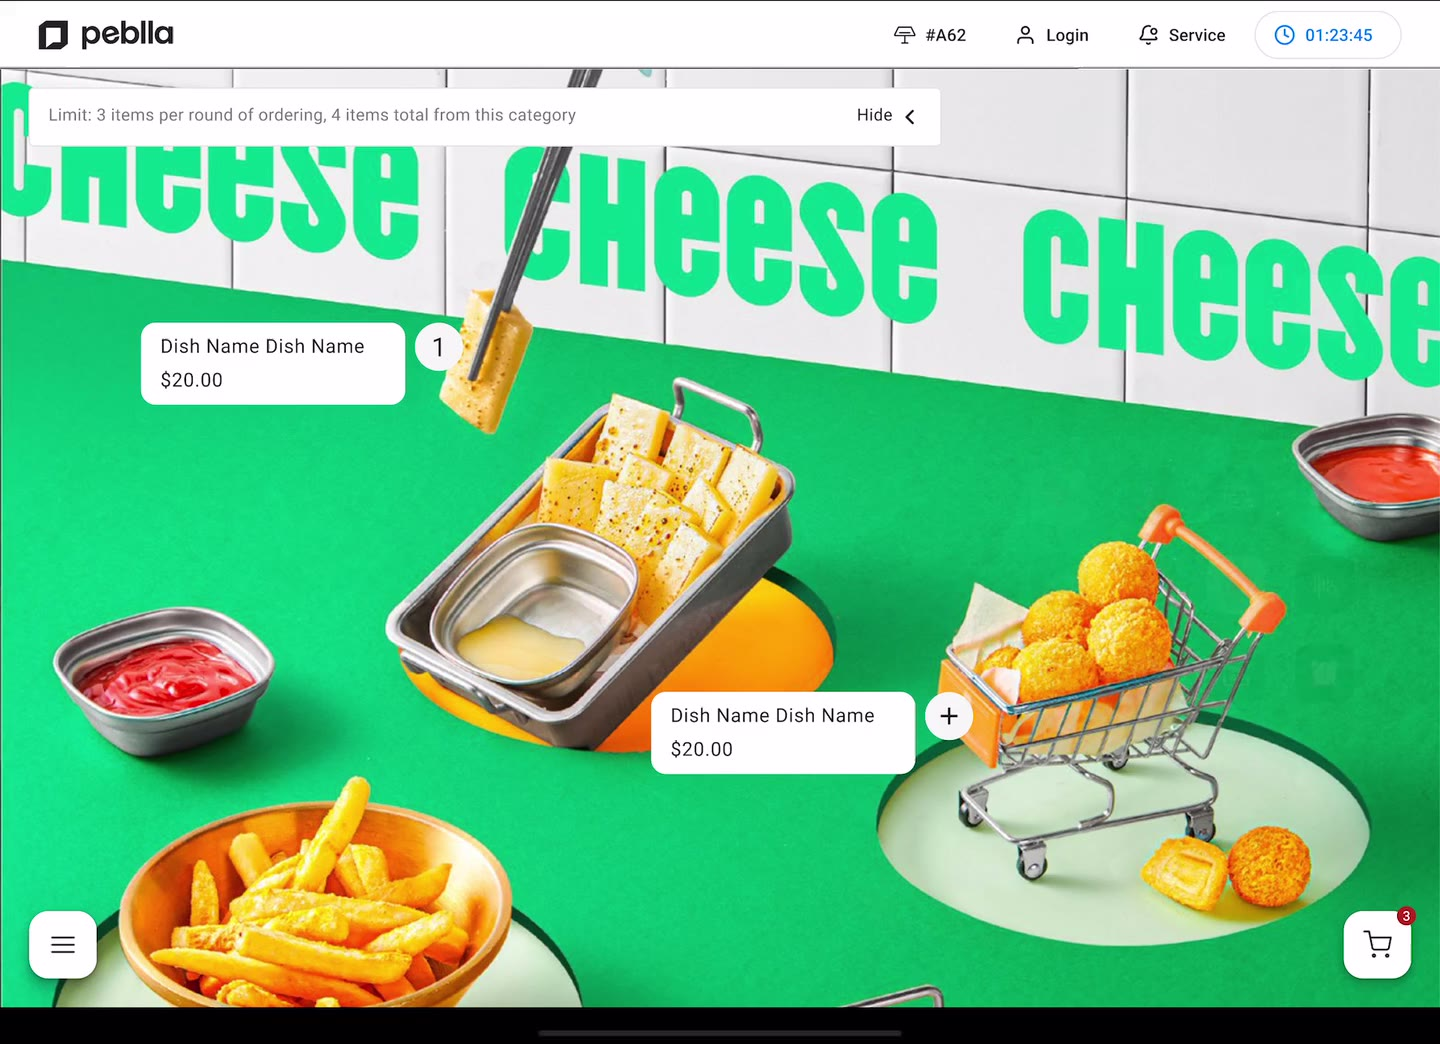
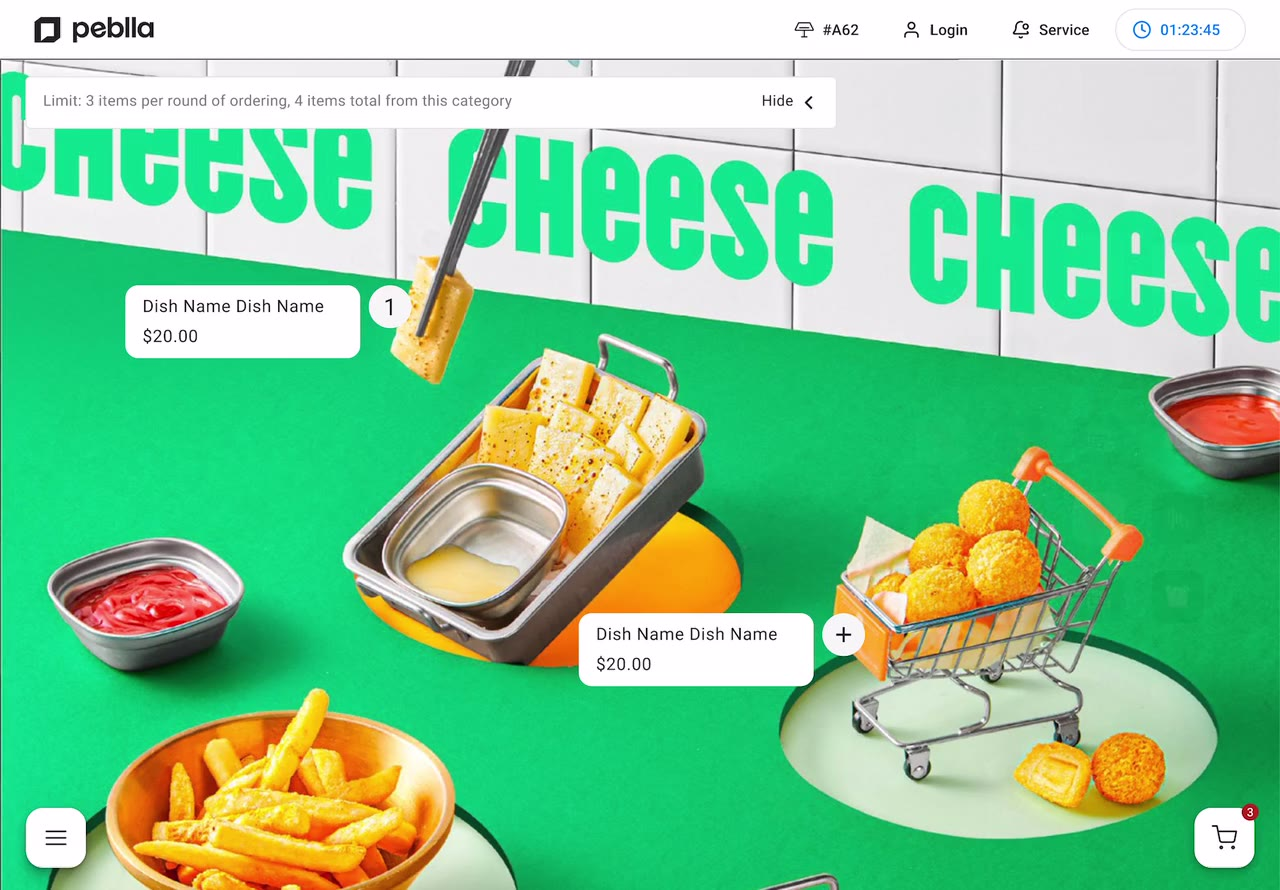
Ordering Tablet Section 6: trim video ends, crop bottom bar, frame as tablet card
- Trim the iOS Control Center that reopens at the end of each clip
  (B ends 81.4s, C ends 92.9s)
- Crop the bottom home-indicator black bar (crop top50/bottom54)
- Reframe: gray #fafafa stage with a centered, shadowed tablet card
  at 80% width, so the video reads as a device mockup, not full-bleed
- Re-encode 1280x890; B 28MB, C 16MB; cache-busted ?v=20260714c

diff --git a/demos/demos.css b/demos/demos.css
@@ -1747,23 +1747,27 @@
 
 /* ============================================================
    .fig-video — real prototype screen-recordings (Ordering Tablet
-   Section 06). Clean rounded frame matching the other figures;
-   plays via native <video>, play/pause driven by fig-video.js as
-   it scrolls in and out of view.
+   Section 06). Same flat #fafafa stage as the other device figures:
+   a gray frame with a centered, shadowed tablet card playing the
+   video. play/pause driven by fig-video.js as it scrolls in/out.
    ============================================================ */
 .fig-video {
-  position: relative;
-  border-radius: 16px;
-  overflow: hidden;
+  background: #fafafa;
   border: 1px solid #e4e4e1;
-  background: #0c0c0c;
-  line-height: 0;
+  border-radius: 16px;
+  padding: clamp(22px, 5vw, 52px) clamp(18px, 4vw, 46px);
 }
-.fig-video video {
+.fig-video-stage {
+  width: 80%;
+  margin: 0 auto;
+  border-radius: 18px;
+  overflow: hidden;
+  background: #000;
+  line-height: 0;
+  box-shadow: 0 30px 70px rgba(18, 18, 18, 0.22), 0 6px 18px rgba(18, 18, 18, 0.1);
+}
+.fig-video-stage video {
   width: 100%;
   height: auto;
   display: block;
-}
-@media (prefers-reduced-motion: reduce) {
-  .fig-video video { /* still controllable; autoplay suppressed via JS */ }
 }

diff --git a/tablet.html b/tablet.html
@@ -10,7 +10,7 @@
   <link href="https://fonts.googleapis.com/css2?family=Geist:wght@400;500;600;700&family=Geist+Mono:wght@400;500&family=Instrument+Serif:ital@0;1&family=Noto+Serif+TC:wght@400;600&family=Noto+Sans+TC:wght@400;500;700&family=Inter:wght@400;500;700&display=swap" rel="stylesheet" />
   <link rel="stylesheet" href="styles.css" />
   <link rel="stylesheet" href="case.css" />
-  <link rel="stylesheet" href="demos/demos.css?v=20260714b" />
+  <link rel="stylesheet" href="demos/demos.css?v=20260714c" />
   <script src="analytics.js?v=20260714c"></script>
 </head>
 <body class="case-tablet">
@@ -187,13 +187,17 @@
         </div>
         <figure class="reveal">
           <div class="fig-video">
-            <video src="demos/assets/tablet-prototype-b.mp4" poster="demos/assets/tablet-prototype-b-poster.jpg" muted loop playsinline controls preload="metadata"></video>
+            <div class="fig-video-stage">
+              <video src="demos/assets/tablet-prototype-b.mp4?v=20260714c" poster="demos/assets/tablet-prototype-b-poster.jpg?v=20260714c" muted loop playsinline controls preload="metadata"></video>
+            </div>
           </div>
           <figcaption>Prototype B &mdash; the prototype we actually recorded to validate poster-style ordering: an immersive scrolling menu where you open a dish, order in place, and check the cart. Beautiful &mdash; and deliberately shelved.</figcaption>
         </figure>
         <figure class="reveal">
           <div class="fig-video">
-            <video src="demos/assets/tablet-prototype-c.mp4" poster="demos/assets/tablet-prototype-c-poster.jpg" muted loop playsinline controls preload="metadata"></video>
+            <div class="fig-video-stage">
+              <video src="demos/assets/tablet-prototype-c.mp4?v=20260714c" poster="demos/assets/tablet-prototype-c-poster.jpg?v=20260714c" muted loop playsinline controls preload="metadata"></video>
+            </div>
           </div>
           <figcaption>Prototype C &mdash; a second poster variant we explored alongside B, opening from the table&rsquo;s welcome screen.</figcaption>
         </figure>

diff --git a/zh/tablet.html b/zh/tablet.html
@@ -10,7 +10,7 @@
   <link href="https://fonts.googleapis.com/css2?family=Geist:wght@400;500;600;700&family=Geist+Mono:wght@400;500&family=Instrument+Serif:ital@0;1&family=Noto+Serif+TC:wght@400;600&family=Noto+Sans+TC:wght@400;500;700&family=Inter:wght@400;500;700&display=swap" rel="stylesheet" />
   <link rel="stylesheet" href="../styles.css" />
   <link rel="stylesheet" href="../case.css" />
-  <link rel="stylesheet" href="../demos/demos.css?v=20260714b" />
+  <link rel="stylesheet" href="../demos/demos.css?v=20260714c" />
   <script src="../analytics.js?v=20260714c"></script>
 </head>
 <body class="case-tablet">
@@ -187,13 +187,17 @@
         </div>
         <figure class="reveal">
           <div class="fig-video">
-            <video src="../demos/assets/tablet-prototype-b.mp4" poster="../demos/assets/tablet-prototype-b-poster.jpg" muted loop playsinline controls preload="metadata"></video>
+            <div class="fig-video-stage">
+              <video src="../demos/assets/tablet-prototype-b.mp4?v=20260714c" poster="../demos/assets/tablet-prototype-b-poster.jpg?v=20260714c" muted loop playsinline controls preload="metadata"></video>
+            </div>
           </div>
           <figcaption>方案 B &mdash;&mdash; 當年為了驗證「海報式點餐」而真正錄下來的原型:一整張沉浸式的滾動菜單,點開一道菜、就地加點、再看購物車。做得很美 &mdash;&mdash; 也主動地把它擱置了。</figcaption>
         </figure>
         <figure class="reveal">
           <div class="fig-video">
-            <video src="../demos/assets/tablet-prototype-c.mp4" poster="../demos/assets/tablet-prototype-c-poster.jpg" muted loop playsinline controls preload="metadata"></video>
+            <div class="fig-video-stage">
+              <video src="../demos/assets/tablet-prototype-c.mp4?v=20260714c" poster="../demos/assets/tablet-prototype-c-poster.jpg?v=20260714c" muted loop playsinline controls preload="metadata"></video>
+            </div>
           </div>
           <figcaption>方案 C &mdash;&mdash; 與 B 並行探索的第二種海報版型,從桌位歡迎畫面開始點餐。</figcaption>
         </figure>